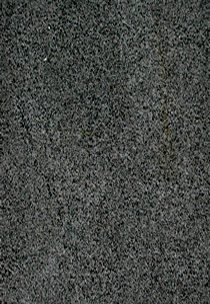
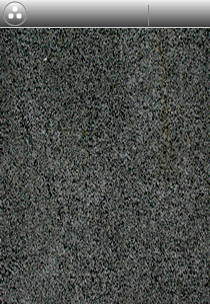
Adding time and date on the pos screen

Changed region(s): [[0.0, 0.0, 1.0, 0.1184]]

diff --git a/src/pos_emu/PosEmuEngine.java b/src/pos_emu/PosEmuEngine.java
@@ -5,6 +5,8 @@
  */
 package pos_emu;
 
+import java.time.LocalDateTime;
+import java.time.format.DateTimeFormatter;
 import javafx.application.Platform;
 import javafx.scene.control.Label;
 import javafx.scene.image.Image;
@@ -18,9 +20,11 @@ class PosEmuEngine {
     private final int MAX_SCREEN_CHAR = 19;
     private final int AMOUNT_MAX_DIGIT = MAX_SCREEN_CHAR - 5;
     private final String BACKGROUND_IMAGE = "/pos_emu/resource/stone-background.png";
-    private final Paint WHITE_COLOR = Color.web("#DDDDDD");
-    private final Paint RED_COLOR = Color.web("#FFCCCC");
+    private final Paint POS_COLOR_WHITE = Color.web("#FFFFFF");
+    private final Paint POS_COLOR_GREY = Color.web("#DDDDDD");
+    private final Paint POS_COLOR_RED = Color.web("#FFCCCC");
     
+    private final Pos_emu internalPosEmu;
     private final FXMLDocumentController internalIhmController;
     private final ParamConfigFile internalParamData;
     private PosEnums.State currentState = PosEnums.State.STATE_NOT_STARTED;
@@ -29,21 +33,22 @@ class PosEmuEngine {
     private String strAmountInteger;
     private String strAmountDecimal;
     private int pressedNumKey;
-    private int currencyExponent;
-
+    private String currentDateTimeDisplay = "";
+            
     /*
     * Constructor
      */
-    PosEmuEngine(FXMLDocumentController ihmController, ParamConfigFile theParamData) {
+    PosEmuEngine(Pos_emu posEmuController, FXMLDocumentController ihmController, ParamConfigFile theParamData) {
         // Set controller to IHM
         internalIhmController = ihmController;
         internalParamData = theParamData;
+        internalPosEmu = posEmuController;
     }
 
     /*
     * POS Engine (state machine)
      */
-    public void StartEngine(PosEnums.State stateToFix) {
+    public void StartEngine(PosEnums.State stateToFix, boolean clearScreen) {
 
         nextState = stateToFix;
 
@@ -53,11 +58,11 @@ class PosEmuEngine {
             switch (currentState) {
                 case STATE_IDLE:
                     System.out.println("STATE IDLE");
-                    ClearScreen();
+                    ClearScreen(clearScreen);
                     if (Integer.parseInt(internalParamData.GetIdleType()) == 0) {
                         // 2 lines of 16 characters are displayed
-                        DisplayLine(CenterMessage(internalParamData.GetIdleMsg1()), WHITE_COLOR, 0, 120, FONT_CHAR_SIZE);
-                        DisplayLine(CenterMessage(internalParamData.GetIdleMsg2()), WHITE_COLOR, 0, 144, FONT_CHAR_SIZE);
+                        DisplayLine(CenterMessage(internalParamData.GetIdleMsg1()), POS_COLOR_GREY, 0, 140, FONT_CHAR_SIZE);
+                        DisplayLine(CenterMessage(internalParamData.GetIdleMsg2()), POS_COLOR_GREY, 0, 160, FONT_CHAR_SIZE);
                     } else {
                         // A logo is displayed
                         DisplayImage(internalParamData.GetLogo());
@@ -71,25 +76,25 @@ class PosEmuEngine {
                 case STATE_AMOUNT:
                     System.out.println("STATE AMOUNT");
                     // 2 lines of 16 characters are displayed
-                    ClearScreen();
+                    ClearScreen(clearScreen);
                     String str = strAmountInteger + "," + strAmountDecimal + " EUR";
-                    DisplayLine(CenterMessage("DEBIT"), WHITE_COLOR, 0, 100, FONT_CHAR_SIZE);
-                    DisplayLine(str, WHITE_COLOR, 0, 150, FONT_CHAR_SIZE);
+                    DisplayLine(CenterMessage("DEBIT"), POS_COLOR_GREY, 0, 100, FONT_CHAR_SIZE);
+                    DisplayLine(str, POS_COLOR_GREY, 0, 150, FONT_CHAR_SIZE);
                     break;
 
                 case STATE_CARD_WAITING:
                     System.out.println("STATE CARD WAITING");
                     str = strAmountInteger + "," + strAmountDecimal + " EUR";
-                    ClearScreen();
-                    DisplayLine(CenterMessage("INSERT CARD"), WHITE_COLOR, 0, 100, FONT_CHAR_SIZE);
-                    DisplayLine(CenterMessage(str), RED_COLOR, 0, 170, FONT_CHAR_SIZE);
+                    ClearScreen(clearScreen);
+                    DisplayLine(CenterMessage("INSERT CARD"), POS_COLOR_GREY, 0, 100, FONT_CHAR_SIZE);
+                    DisplayLine(CenterMessage(str), POS_COLOR_RED, 0, 170, FONT_CHAR_SIZE);
                     break;
 
                 case TRANSACTION:
                     System.out.println("STATE TRANSACTION");
-                    ClearScreen();
-                    DisplayLine(CenterMessage("TRANSACTION"), WHITE_COLOR, 0, 100, FONT_CHAR_SIZE);
-                    DisplayLine(CenterMessage("EN COURS"), WHITE_COLOR, 0, 150, FONT_CHAR_SIZE);
+                    ClearScreen(clearScreen);
+                    DisplayLine(CenterMessage("TRANSACTION"), POS_COLOR_GREY, 0, 100, FONT_CHAR_SIZE);
+                    DisplayLine(CenterMessage("EN COURS"), POS_COLOR_GREY, 0, 150, FONT_CHAR_SIZE);
                     break;
 
                 default:
@@ -107,36 +112,36 @@ class PosEmuEngine {
                 if (IsNumeric(keyValue) == true) {
                     ClearAmount();
                     AddDigitToAmount(keyValue);
-                    StartEngine(PosEnums.State.STATE_AMOUNT);
+                    StartEngine(PosEnums.State.STATE_AMOUNT, true);
                 }
                 break;
 
             case STATE_MENU_SCREEN:
                 if (keyValue == PosEnums.PosKeyCode.NUM_CANCEL) {
-                    StartEngine(PosEnums.State.STATE_IDLE);
+                    StartEngine(PosEnums.State.STATE_IDLE, true);
                 }
                 break;
 
             case STATE_AMOUNT:
                 if (keyValue == PosEnums.PosKeyCode.NUM_CORR) {
                     RemoveDigitFromAmount();
-                    StartEngine(PosEnums.State.STATE_AMOUNT);
+                    StartEngine(PosEnums.State.STATE_AMOUNT, true);
                 }
                 if (keyValue == PosEnums.PosKeyCode.NUM_VAL) {
-                    StartEngine(PosEnums.State.STATE_CARD_WAITING);
+                    StartEngine(PosEnums.State.STATE_CARD_WAITING, true);
                 }
                 if (keyValue == PosEnums.PosKeyCode.NUM_CANCEL) {
-                    StartEngine(PosEnums.State.STATE_IDLE);
+                    StartEngine(PosEnums.State.STATE_IDLE, true);
                 }
                 if (IsNumeric(keyValue) == true) {
                     AddDigitToAmount(keyValue);
-                    StartEngine(PosEnums.State.STATE_AMOUNT);
+                    StartEngine(PosEnums.State.STATE_AMOUNT, true);
                 }
                 break;
 
             case STATE_CARD_WAITING:
                 if (keyValue == PosEnums.PosKeyCode.NUM_CANCEL) {
-                    StartEngine(PosEnums.State.STATE_IDLE);
+                    StartEngine(PosEnums.State.STATE_IDLE, true);
                 }
                 break;
 
@@ -158,11 +163,16 @@ class PosEmuEngine {
         return (preSpaces + msg);
     }
 
-    private void ClearScreen() {
+    private void ClearScreen(boolean clearScreen) {
+        
+        if (clearScreen == false)
+            return;
+        
         Platform.runLater(() -> {
             internalIhmController.PosScreen.getChildren().clear();
         });
         DisplayImage(BACKGROUND_IMAGE);
+        UpdateTimeOnScreen(true);
     }
 
     private void DisplayImage(String imageToDisplay) {
@@ -174,18 +184,24 @@ class PosEmuEngine {
         });
     }
 
-    private void DisplayLine(String msg, Paint color, int posX, int posY, int size) {
+    private void DisplayLine(Label myLabel, String msg, Paint color, int posX, int posY, int size) {
         // Set label values
-        Label posScreenLabel = new Label(msg);
-        posScreenLabel.setTextFill(color);
-        posScreenLabel.setStyle("-fx-font-family: Monospace; -fx-font-size: " + size + "; -fx-font-weight: bold;");
-        posScreenLabel.setLayoutX(posX);
-        posScreenLabel.setLayoutY(posY);
+        myLabel.setText(msg);
+        myLabel.setTextFill(color);
+        myLabel.setStyle("-fx-font-family: Monospace; -fx-font-size: " + size + "; -fx-font-weight: bold;");
+        myLabel.setLayoutX(posX);
+        myLabel.setLayoutY(posY);
 
         // Set POS screen
         Platform.runLater(() -> {
-            internalIhmController.PosScreen.getChildren().add((posScreenLabel));
+            internalIhmController.PosScreen.getChildren().add(myLabel);
         });
+    }
+
+    private void DisplayLine(String msg, Paint color, int posX, int posY, int size) {
+        // Set label values
+        Label posScreenLabel = new Label("");
+        DisplayLine(posScreenLabel, msg, color, posX, posY, size);
     }
 
     private boolean IsNumeric(PosEnums.PosKeyCode keyValue) {
@@ -299,5 +315,19 @@ class PosEmuEngine {
         String str;
         str = s.substring(0, s.length() - 1);
         return str;
+    }
+    
+    public void UpdateTimeOnScreen(boolean force) {
+      	DateTimeFormatter dtf = DateTimeFormatter.ofPattern("HH:mm dd/MM/yyyy");
+        LocalDateTime now = LocalDateTime.now();
+        String display = dtf.format(now);
+        if ((!currentDateTimeDisplay.equals(display)) || (true == force)) {
+            System.out.println(dtf.format(now)); // 16:28 21/05/2018
+            currentDateTimeDisplay = display;
+            DisplayImage(BACKGROUND_IMAGE);
+            DisplayLine(display.substring(0,5), POS_COLOR_WHITE, 164, 0, 12); // time
+            DisplayLine(display.substring(6,16), POS_COLOR_GREY, 150, 12, 10); // date
+            StartEngine(currentState, false);
+        }
     }
 }

diff --git a/src/pos_emu/Pos_emu.java b/src/pos_emu/Pos_emu.java
@@ -22,6 +22,7 @@ import java.io.FileReader;
 import java.util.logging.Level;
 import java.util.logging.Logger;
 import javafx.application.Platform;
+import javafx.scene.control.Label;
 import javafx.scene.text.Font;
 import javafx.stage.WindowEvent;
 
@@ -75,7 +76,7 @@ public class Pos_emu extends Application {
         config_param_data = ReadJsonConfigFile();
 
         // Create instante of Engine
-        internalPosEmuEngine = new PosEmuEngine(ihmController, config_param_data);
+        internalPosEmuEngine = new PosEmuEngine(this, ihmController, config_param_data);
 
         // Set operations when window is closed
         stage.setOnCloseRequest((WindowEvent we) -> {
@@ -91,7 +92,7 @@ public class Pos_emu extends Application {
         StartPOSBoot();        
         
         // Start the IDLE Screen
-        internalPosEmuEngine.StartEngine(PosEnums.State.STATE_IDLE);
+        internalPosEmuEngine.StartEngine(PosEnums.State.STATE_IDLE, true);
         
         // Add the scene to the stage and launch the stage
         stage.setScene(scene);
@@ -180,7 +181,10 @@ public class Pos_emu extends Application {
                                     break;
                             }
                         }
+                        // Wait 10 ms, not to use all CPU resource
                         Thread.sleep(10);
+                        // Update the time
+                        internalPosEmuEngine.UpdateTimeOnScreen(false);
                     } catch (InterruptedException ex) {
                         Logger.getLogger(Pos_emu.class.getName()).log(Level.SEVERE, null, ex);
                     }
